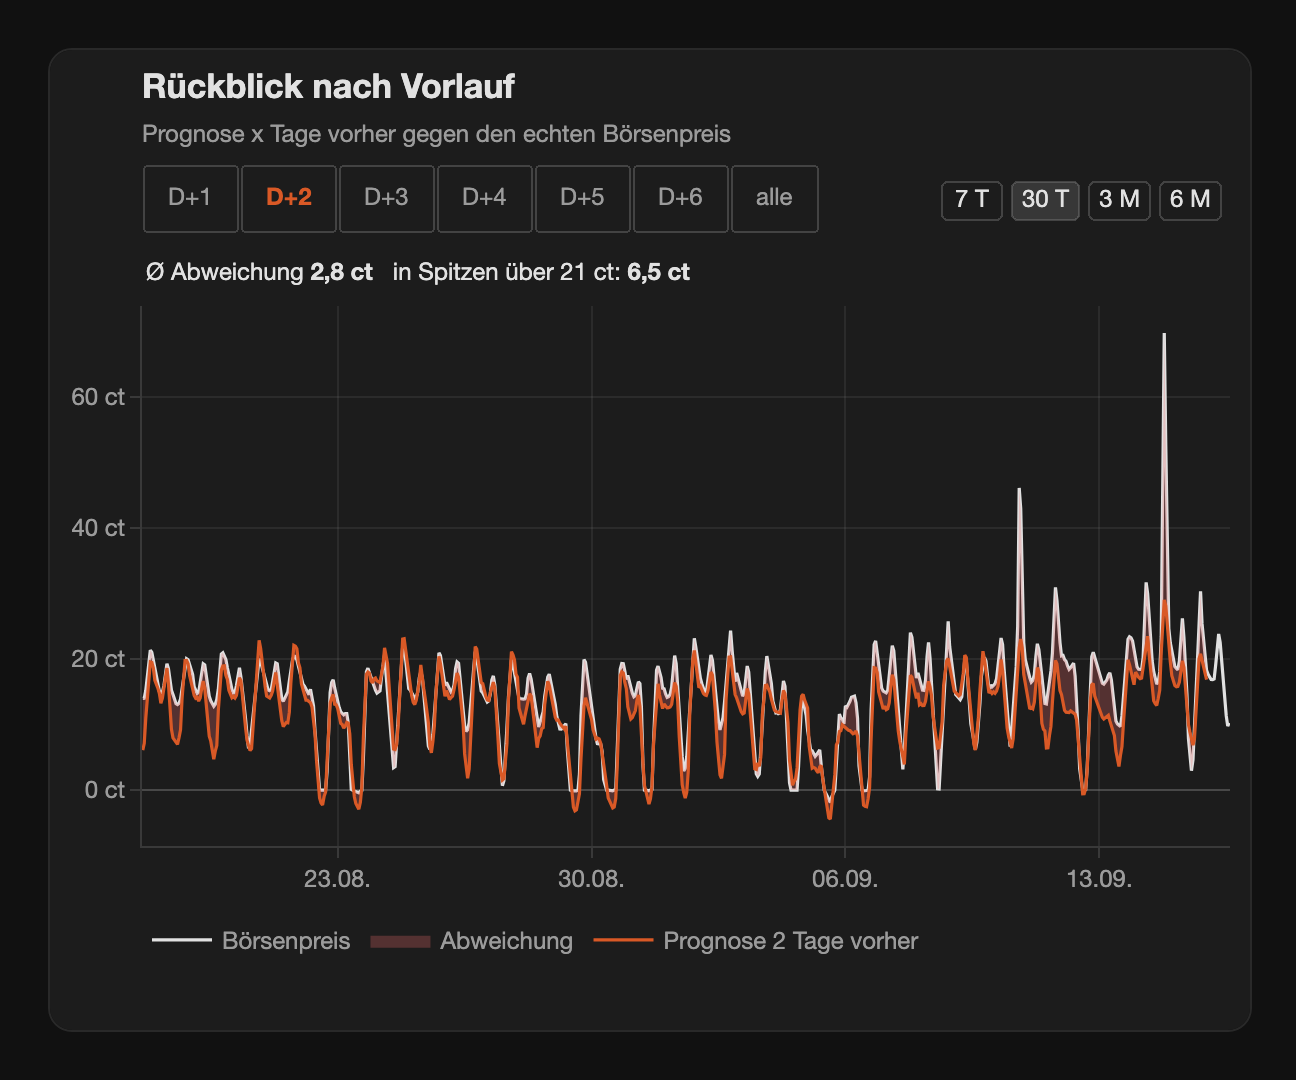
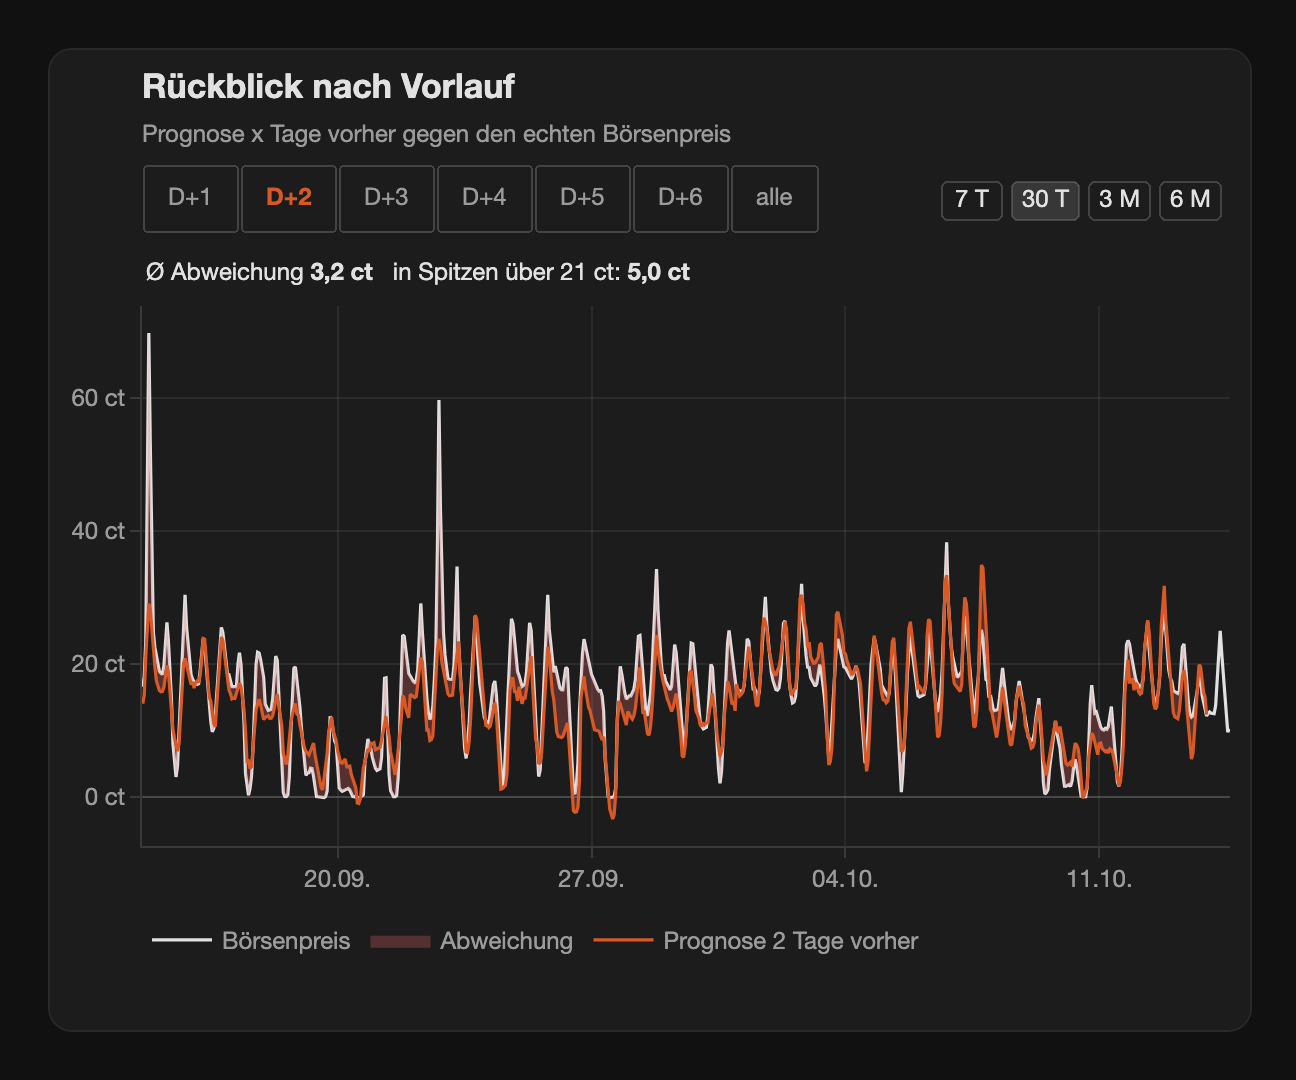
Draw the card screenshots out of sample
The screenshot moment moves from 2026-09-16 to 2026-10-14, two weeks after the
bundled model's training cutoff (2026-10-01): a forecast for days the model was
trained on looked better than the integration can be. Anchor 2026-10-15 is the
latest the research weather archive covers for all six days.

The look-back statistics now continue past the cutoff as on a real install: the
days from the cutoff on are recomputed from archived weather, as the device's
backfill does, and merged with the bundled backfill.

Claude-Session: https://claude.ai/code/session_0161hs24SpqnTTzyHMXCv1uW

diff --git a/tools/card_scenarios.py b/tools/card_scenarios.py
@@ -3,8 +3,14 @@
 Each scenario is a fixed past moment on research data. The forecast comes from
 ``core.forecast.run_forecast`` with the bundled model, the ``prices`` attribute from
 ``core.output.prices_attribute`` and the long-term statistics from ``Ledger.finalize``
-over the bundled backfill file, as the integration builds them. Nothing is hand-written:
-a hand-made price curve would drift away from what the integration shows.
+over the backfill, as the integration builds them: the bundled backfill file for target
+days before the model's training cutoff, forecasts recomputed from archived weather for
+the days after it. Nothing is hand-written: a hand-made price curve would drift away from
+what the integration shows.
+
+The screenshot moments lie after the bundled model's training cutoff, so every forecast
+on them is out of sample, as on a real install: a forecast for days the model was
+trained on would look better than the integration can be.
 
 Weather for a past anchor comes from the Open-Meteo previous-runs archive, as in training:
 horizon ``h`` reads the run made ``h + 1`` days before the target day.
@@ -33,10 +39,10 @@ sys.path[:0] = [str(REPO / "custom_components" / "spot_forecast"), str(REPO)]
 
 from const import DEFAULT_BACKFILL_DAYS, MAX_BACKFILL_DAYS, PRICE_HISTORY_DAYS  # noqa: E402
 
-from core.features import HORIZONS, Hourly  # noqa: E402
+from core.features import HORIZONS, Hourly, InsufficientHistory  # noqa: E402
 from core.forecast import run_forecast  # noqa: E402
 from core.ingest import MarketSlot, hourly_prices, parse_energy_charts  # noqa: E402
-from core.ledger import Ledger, Run, runs_from_backfill_file  # noqa: E402
+from core.ledger import ISSUE_HOUR, Ledger, Run, runs_from_backfill_file  # noqa: E402
 from core.model import ModelFile, load_model  # noqa: E402
 from core.output import current_price, flag_window, prices_attribute  # noqa: E402
 from core.schedule import choose_anchor  # noqa: E402
@@ -65,18 +71,21 @@ def _local(*args: int) -> datetime:
 
 
 SCENARIOS: dict[str, Spec] = {
-    # After the day-ahead publication: market through tomorrow, forecast for six days,
-    # and the look-back of an install with the longest backfill window.
-    "default": Spec(_local(2026, 9, 16, 14, 30), backfill_days=MAX_BACKFILL_DAYS),
+    # After the day-ahead publication: market through tomorrow (10-15), forecast for six
+    # days (10-16 … 10-21), and the look-back of an install with the longest backfill
+    # window. Two weeks after the bundled model's cutoff (2026-10-01), so the forecast is
+    # out of sample; anchor 10-15 is the latest the research weather archive covers for
+    # all six days (it lacks the run for D+6 of anchor 10-16).
+    "default": Spec(_local(2026, 10, 14, 14, 30), backfill_days=MAX_BACKFILL_DAYS),
     # 2026-10-25 (fall-back) is past the research data; the 2025 fall-back day is the
     # nearest one with prices and archived weather. It is "today", in 15-minute slots.
     "dst": Spec(_local(2025, 10, 26, 14, 30), backfill_days=0),
     # The same fall-back day as the first forecast day, in hourly forecast slots.
     "dst_forecast": Spec(_local(2025, 10, 24, 14, 30), backfill_days=0),
     # The weather source failed for two days: the forecast is dropped, prices remain.
-    "stale": Spec(_local(2026, 9, 16, 14, 30), backfill_days=MAX_BACKFILL_DAYS, expired=True),
+    "stale": Spec(_local(2026, 10, 14, 14, 30), backfill_days=MAX_BACKFILL_DAYS, expired=True),
     # Installed today with the default backfill window.
-    "fresh_install": Spec(_local(2026, 9, 16, 14, 30), backfill_days=DEFAULT_BACKFILL_DAYS),
+    "fresh_install": Spec(_local(2026, 10, 14, 14, 30), backfill_days=DEFAULT_BACKFILL_DAYS),
 }
 
 
@@ -191,6 +200,41 @@ def _backfill_runs(zone: Zone, model: ModelFile, first: date, today: date) -> li
     return runs
 
 
+def _recomputed_runs(
+    zone: Zone, model: ModelFile, hourly: Hourly, weather, first: date, today: date
+) -> list[Run]:
+    """Runs for the target days in [max(cutoff, first), today), forecast from archived weather.
+
+    What the integration's backfill does on the device for the days after the training
+    cutoff (``backfill._recompute``): each anchor sees the prices published by its end and
+    the previous-runs weather of training.
+    """
+    start = max(model.train_cutoff, first)
+    runs = []
+    for i in range((today - start).days + max(HORIZONS)):
+        anchor = start + (i - max(HORIZONS)) * _DAY
+        end = _midnight(anchor + _DAY, zone)
+        known = Hourly(hourly.start, hourly.values[: max((end - hourly.start) // _HOUR, 0)])
+        try:
+            slots = run_forecast(model, anchor, known, {h: weather[h + 1] for h in HORIZONS}, zone)
+        except InsufficientHistory:
+            continue
+        kept = tuple(s for s in slots if start <= anchor + timedelta(days=s.h) < today)
+        if kept:
+            issued = datetime.combine(anchor, time(ISSUE_HOUR), ZoneInfo(zone.tz)).astimezone(UTC)
+            runs.append(Run(anchor, issued, model.version, kept, True))
+    return runs
+
+
+def _merge(runs: list[Run]) -> list[Run]:
+    """One run per anchor: an anchor before the cutoff has bundled and recomputed slots."""
+    merged: dict[date, Run] = {}
+    for run in runs:
+        old = merged.get(run.anchor)
+        merged[run.anchor] = run if old is None else replace(old, slots=old.slots + run.slots)
+    return [merged[a] for a in sorted(merged)]
+
+
 def build(spec: Spec, zone: Zone = DE_LU) -> dict:
     model = _model()
     now = spec.now.astimezone(UTC)
@@ -209,12 +253,13 @@ def build(spec: Spec, zone: Zone = DE_LU) -> dict:
     first = today - timedelta(days=max(spec.backfill_days, PRICE_HISTORY_DAYS))
     i = max((_midnight(first, zone) - hourly.start) // _HOUR, 0)
     ledger.record_actual(Hourly(hourly.start + i * _HOUR, hourly.values[i:]))
+    weather = _weather()
     if spec.backfill_days:
         first = today - timedelta(days=spec.backfill_days)
-        for run in _backfill_runs(zone, model, first, today):
+        bundled = _backfill_runs(zone, model, first, min(today, model.train_cutoff))
+        for run in _merge(bundled + _recomputed_runs(zone, model, hourly, weather, first, today)):
             ledger.add_run(run)
 
-    weather = _weather()
     slots = run_forecast(model, anchor, hourly, {h: weather[h + 1] for h in HORIZONS}, zone)
     issued_at = now - (_EXPIRED if spec.expired else timedelta(minutes=10))
     ledger.add_run(Run(anchor, issued_at, model.version, tuple(slots), False))

diff --git a/tests/test_cards.py b/tests/test_cards.py
@@ -7,9 +7,11 @@ make sure the scenarios still come out of the real core code.
 
 from __future__ import annotations
 
+from datetime import date, datetime, time
 import os
 from pathlib import Path
 import re
+from zoneinfo import ZoneInfo
 
 import pytest
 import yaml
@@ -87,7 +89,7 @@ def test_cards_use_theme_variables_for_ink(name):
 
 @pytest.mark.skipif(not (RESEARCH / "data" / "raw").exists(), reason="research raw data missing")
 def test_scenarios_build_from_core():
-    from tools.card_scenarios import scenario
+    from tools.card_scenarios import _model, scenario
 
     s = scenario("default")
     prices = s["states"][PRICE_SENSOR]["attributes"]["prices"]
@@ -105,6 +107,13 @@ def test_scenarios_build_from_core():
         assert {"start", "mean", "state"} <= rows[0].keys()
     # the ledger finalized yesterday's prices, which the forecast card shows from statistics
     assert s["statistics"][PRICE_STAT][-1]["start"] >= s["now_ms"] - 24 * 3600 * 1000
+    # out of sample: the screenshot moment lies after the bundled model's training cutoff,
+    # and the look-back runs on past it with forecasts recomputed as the device does
+    cutoff = _model().train_cutoff
+    assert date.fromisoformat(s["states"][PRICE_SENSOR]["attributes"]["anchor_day"]) > cutoff
+    cutoff_ms = datetime.combine(cutoff, time(), ZoneInfo("Europe/Berlin")).timestamp() * 1000
+    for statistic_id in FORECAST_STATS:
+        assert s["statistics"][statistic_id][-1]["start"] > cutoff_ms + 7 * 24 * 3600 * 1000
 
     stale = scenario("stale")
     entries = stale["states"][PRICE_SENSOR]["attributes"]["prices"]
